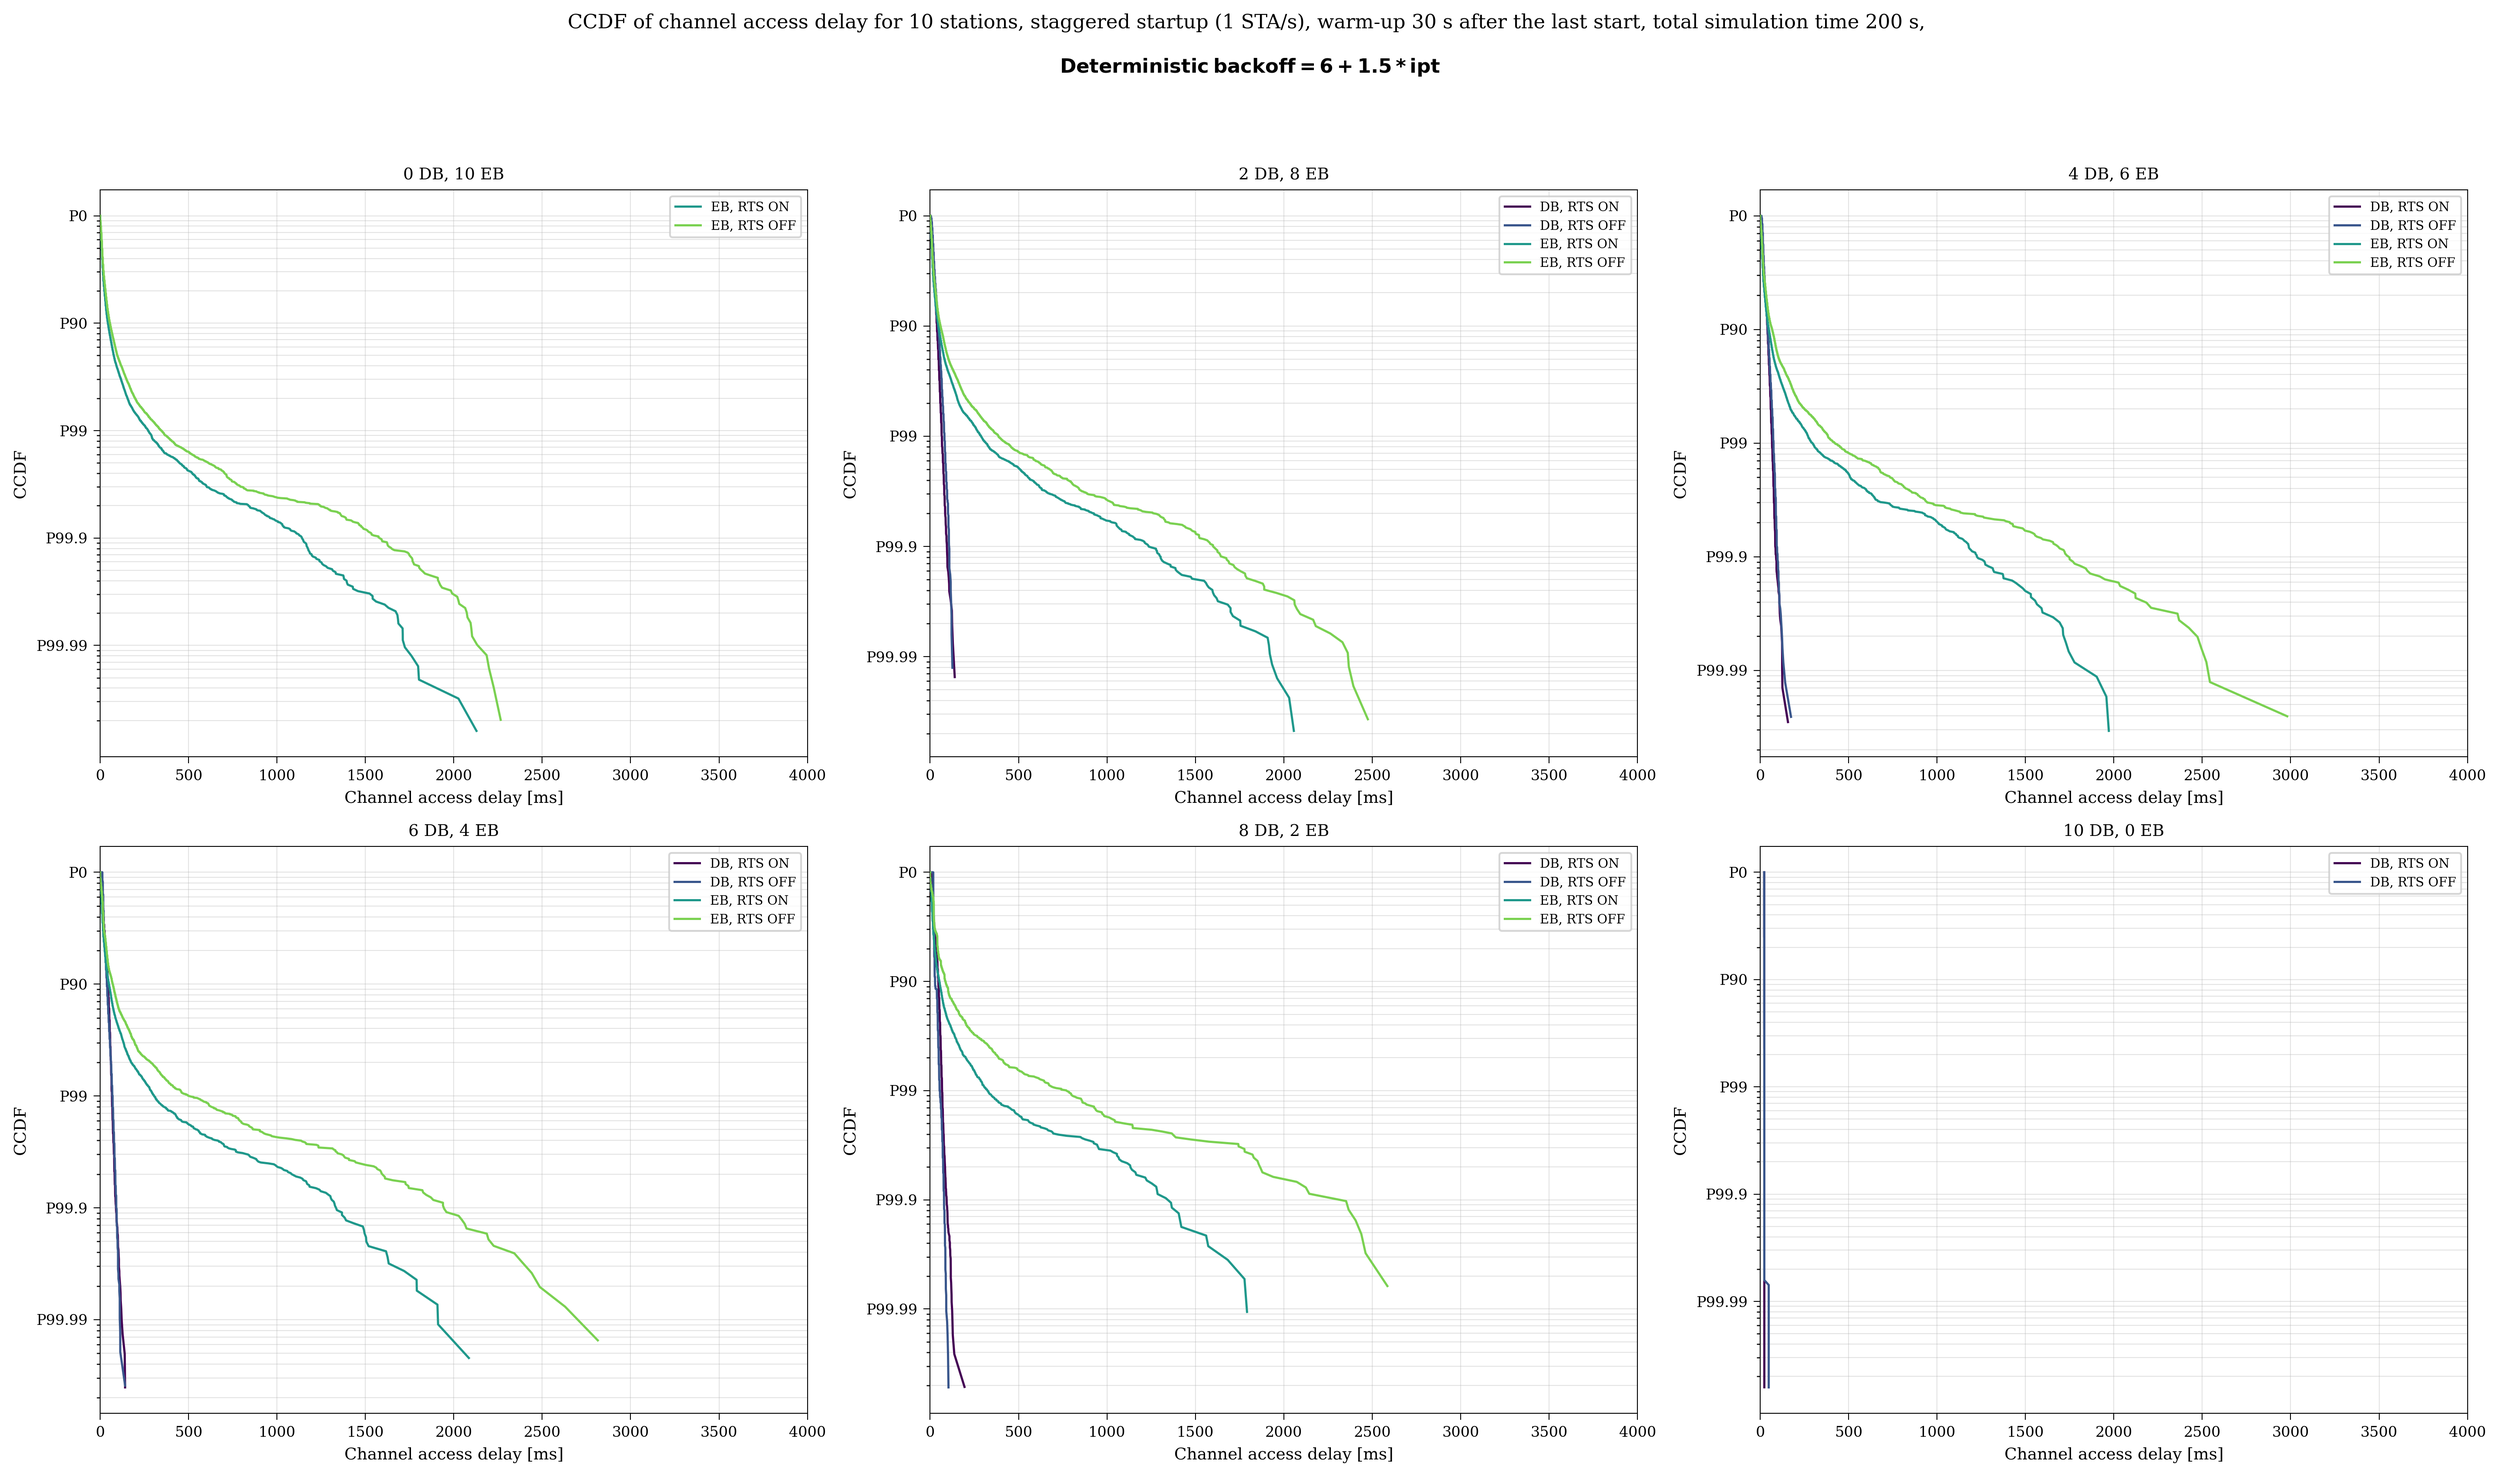
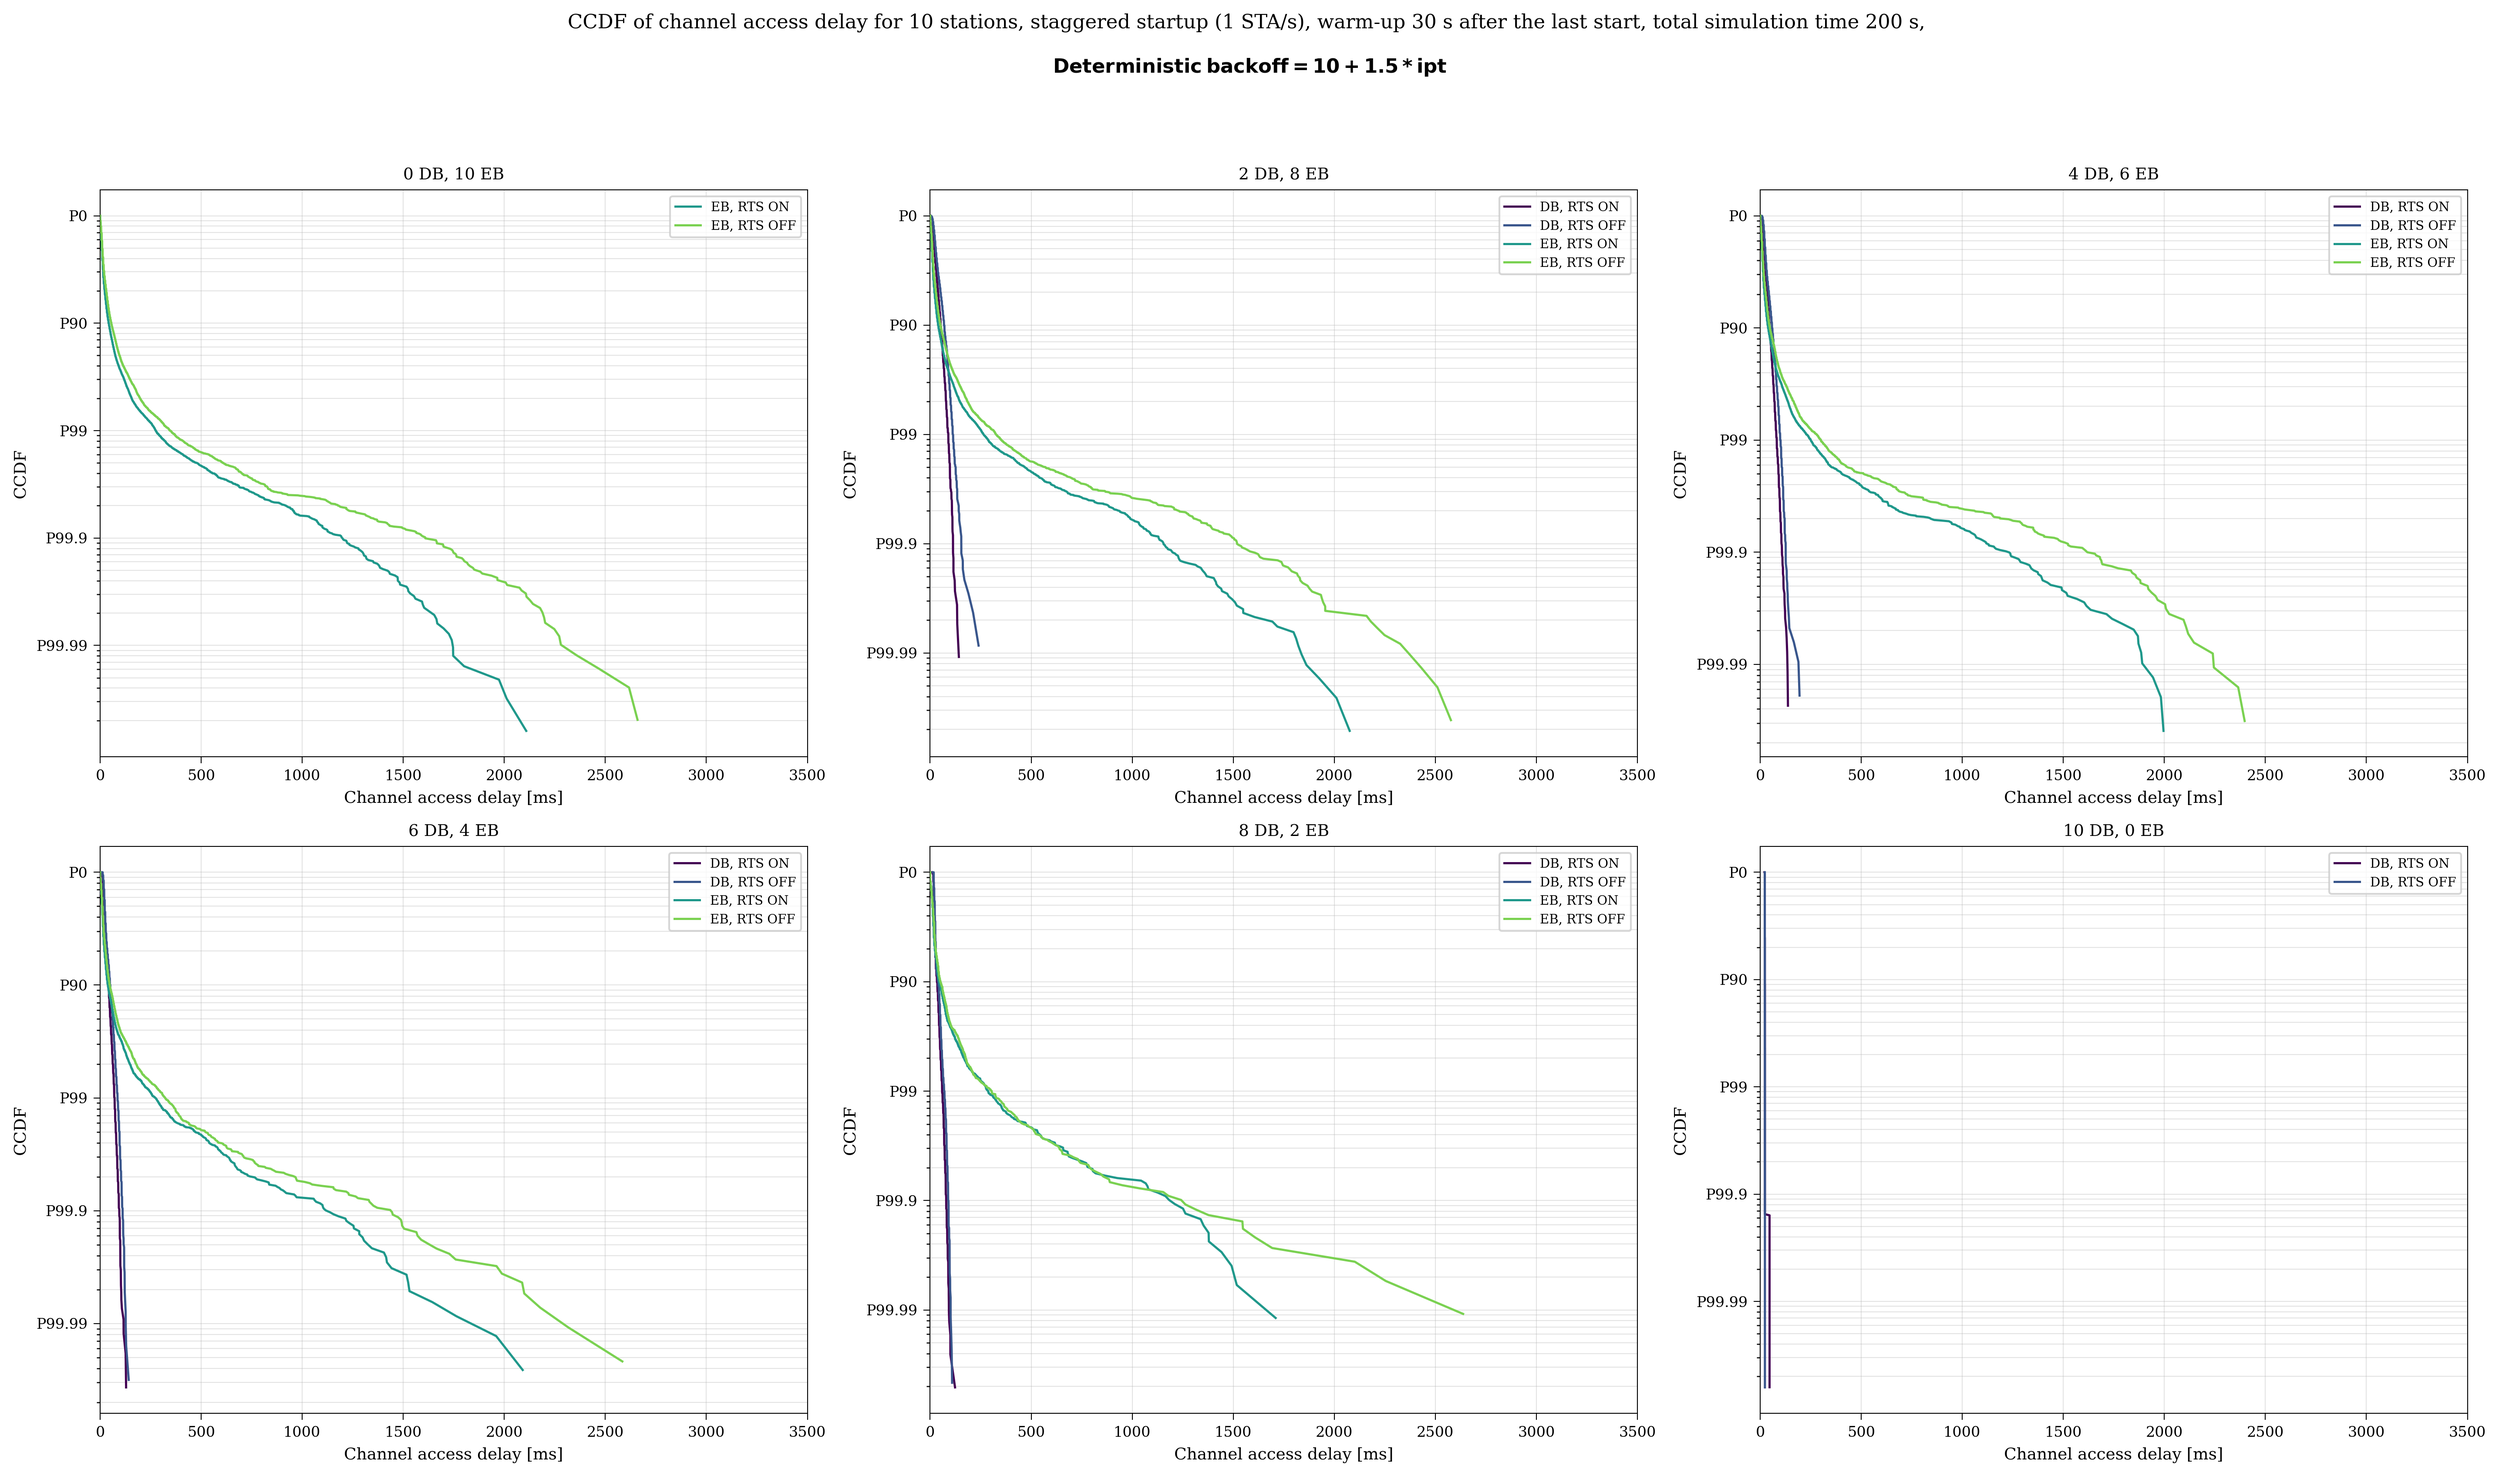
nic

diff --git a/plots/throughput_ratio_plot.py b/plots/throughput_ratio_plot.py
@@ -7,7 +7,7 @@ from plot_config import apply_plot_style, get_cmap, SUBPLOT_WIDTH, SUBPLOT_HEIGH
 
 apply_plot_style()
 
-df = pd.read_csv("../data/before_patches/6_15ipt/throughput.csv")
+df = pd.read_csv("../data/10_15ipt/throughput.csv")
 
 
 df["enableRts"] = df["enableRts"].astype(str).str.strip().map({
@@ -38,15 +38,13 @@ for i, total in enumerate(totals):
     ax = axes[i]
     d = df[df["totalSta"] == total].copy()
 
-    # Obliczanie throughput per station dla wszystkich serii, aby znaleźć max_val
+
     y1 = d["throughputBSS_DB"] / d["nDbWifi"].replace(0, np.nan)
     y2 = d["throughputBSS_EB"] / d["nEbWifi"].replace(0, np.nan)
     
-    # Wyznaczenie maksymalnej wartości w aktualnym subplocie (ignorując NaN)
     current_max = np.nanmax([y1.max(), y2.max()])
     
-    # Zaokrąglenie w górę do najbliższej wielokrotności 5
-    # Dodajemy mały margines (np. +1), aby punkty nie dotykały samej góry ramki
+
     y_limit = 5 * np.ceil((current_max + 1) / 5)
     
     d_rts_on = d[d["enableRts"] == True].sort_values("fractionDb")
@@ -100,7 +98,7 @@ for i, total in enumerate(totals):
 
 
 fig.suptitle("Throughput per station vs fraction of DB STAs for 5, 10, 20 and 40 stations, staggered startup (1 STA/s), warm-up 30 s after the last start, total simulation time 200 s\n"
-             "\n$\\mathbf{Deterministic \\: backoff = 6 + 1.5*ipt}$")
+             "\n$\\mathbf{Deterministic \\: backoff = 10 + 1.5*ipt}$")
 
 handles, labels = axes[0].get_legend_handles_labels()
 """fig.legend(

diff --git a/plots/CCDF_combination.py b/plots/CCDF_combination.py
@@ -7,13 +7,8 @@ from plot_config import apply_plot_style, get_cmap, SUBPLOT_WIDTH, SUBPLOT_HEIGH
 
 apply_plot_style()
 
-<<<<<<< HEAD
-DATA_DIR = Path("../data/before_patches/6_15ipt/txop_03_04_2026")
-TOTAL_STA = 40
-=======
-DATA_DIR = Path("../data/7_15ipt/txop_08_04")
+DATA_DIR = Path("../data/10_15ipt/txop_11_04")
 TOTAL_STA = 5
->>>>>>> cce94e31f3bf92b05680c9244248cd656f36c272
 GAP_SECONDS = 1
 WARMUP_SECONDS =30
 X_UNIT = "ms"
@@ -165,7 +160,7 @@ for ax, (n_db, n_eb) in zip(axes, configs):
 
 fig.suptitle(
     "CCDF of channel access delay for "f"{TOTAL_STA}" " stations, staggered startup (1 STA/s), warm-up 30 s after the last start, total simulation time 200 s, \n"
-    "\n$\\mathbf{Deterministic \\: backoff = 6 + 1.5*ipt}$"
+    "\n$\\mathbf{Deterministic \\: backoff = 10 + 1.5*ipt}$"
 )
 
 

diff --git a/plots/realitve_throughput.py b/plots/realitve_throughput.py
@@ -7,7 +7,7 @@ from plot_config import apply_plot_style, get_cmap, SUBPLOT_WIDTH, SUBPLOT_HEIGH
 
 apply_plot_style()
 
-df = pd.read_csv("../data/7_15ipt/singlestation.csv")
+df = pd.read_csv("../data/10_15ipt/singlestation.csv")
 
 df["enableRts"] = df["enableRts"].astype(str).str.strip().map({
     "True": True,
@@ -77,7 +77,7 @@ ax.grid(True, which="major", alpha=1, zorder=0, axis='y')
 ax.legend(loc="best", frameon=True)
 
 fig.suptitle(
-    "\n$\\mathbf{Deterministic \\: backoff = 7 + 1.5*ipt}$"
+    "\n$\\mathbf{Deterministic \\: backoff = 10 + 1.5*ipt}$"
 )
 
 plt.tight_layout()

diff --git a/plots/plt.py b/plots/plt.py
@@ -7,7 +7,7 @@ from plot_config import apply_plot_style, get_cmap, SUBPLOT_WIDTH, SUBPLOT_HEIGH
 
 apply_plot_style()
 
-df = pd.read_csv("../data/7_15ipt/singlestation.csv")
+df = pd.read_csv("../data/10_15ipt/singlestation.csv")
 
 df["enableRts"] = df["enableRts"].astype(str).str.strip().map({
     "True": True,
@@ -75,7 +75,7 @@ ax.grid(True, which="minor", alpha=0.3, zorder=0)
 ax.legend(loc="best", frameon=True)
 
 fig.suptitle(
-    "$\\mathbf{Deterministic \\: backoff = 7 + 1.5*ipt}$"
+    "$\\mathbf{Deterministic \\: backoff = 10 + 1.5*ipt}$"
 )
 
 plt.tight_layout()
